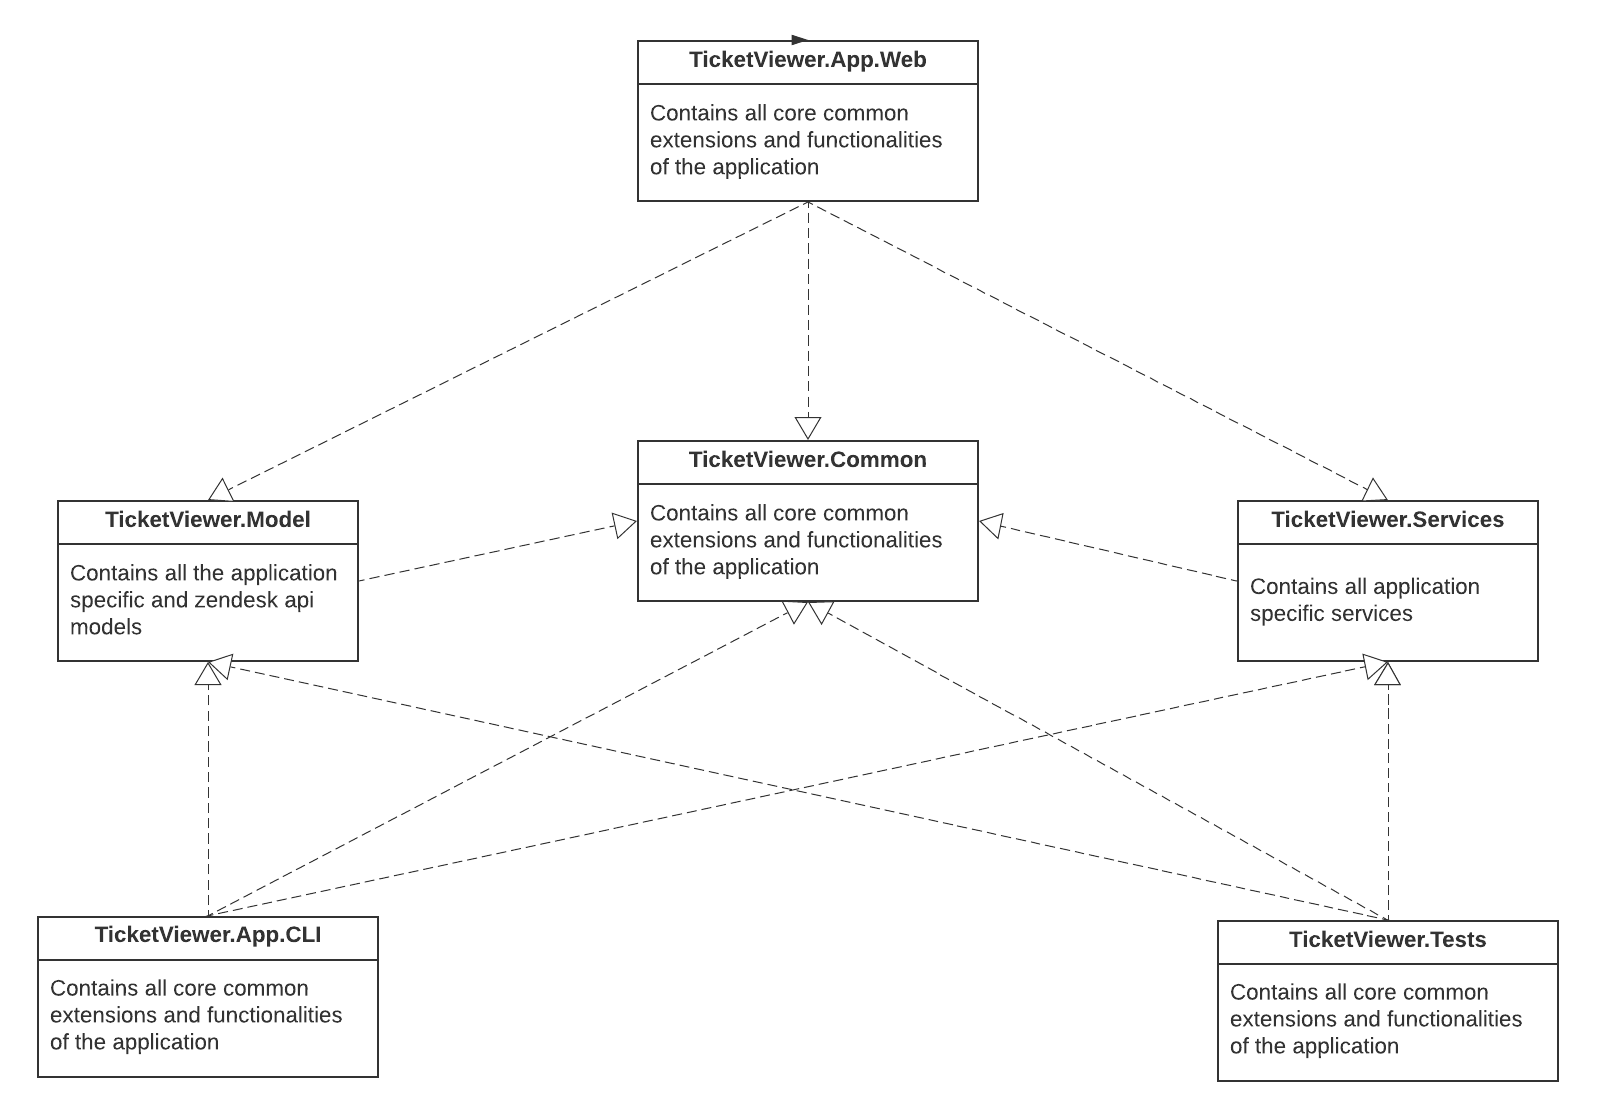
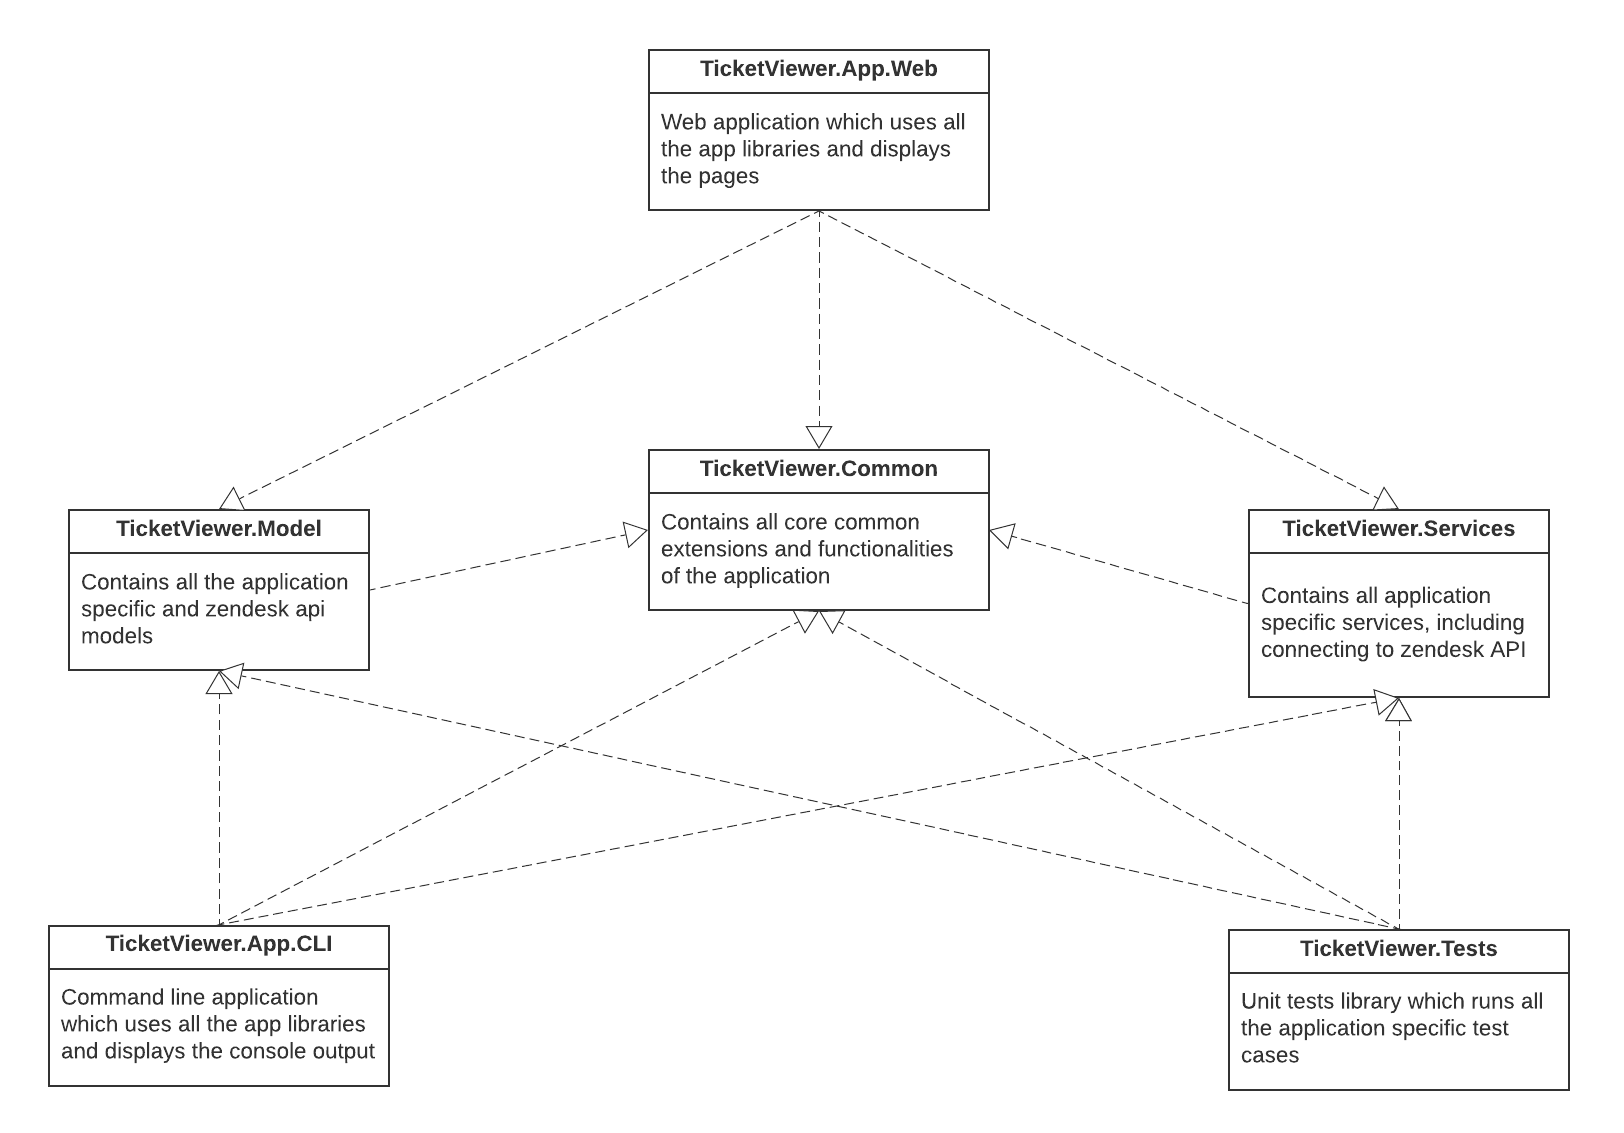
documentaion for application design

diff --git a/README.md b/README.md
@@ -51,12 +51,13 @@ Go To: **appsettings.json** in **TicketViewer.App.Web**
 
     ```JSON
     {
-    "ZendeskSubdomainName": "zccbsportive.zendesk.com",
-    "ZendeskAuthType": "TokenBased", // Values: "Basic", "TokenBased"
-    "ZendeskAccessToken": "__ZendeskAccessToken__",
-    "ZendeskUsername": "__ZendeskUsername__",
-    "ZendeskPassword": "__ZendeskPassword__",
-    "AllowedHosts": "*"
+        "ZendeskSubdomainName": "zccbsportive.zendesk.com",
+        "ZendeskAuthType": "TokenBased", // Values: "Basic", "TokenBased"
+        "ZendeskAccessToken": "__ZendeskAccessToken__",
+        // Provide either access token or username & password based on the provided AuthType
+        "ZendeskUsername": "__ZendeskUsername__",
+        "ZendeskPassword": "__ZendeskPassword__",
+        "AllowedHosts": "*"
     }
     ```
     - By default authentication type is "TokenBased".  
@@ -72,19 +73,26 @@ Go To: **appsettings.json** in **TicketViewer.App.Web**
 
 ## Application Design
 
+### Application Libraries 
+**TicketViewer.Common:**  
+Contains all core common extensions and functionalities of the application
+
+**TicketViewer.Model:**  
+Contains all the application specific and zendesk api models
+
+**TicketViewer.Services:**  
+Contains all application specific services, including connecting to zendesk API
+
+**TicketViewer.App.Web:**  
+Web application which uses all the app libraries and displays the pages
+
+**TicketViewer.App.CLI:**  
+Command line application which uses all the app libraries and displays the console output
+
+**TicketViewer.Tests:**  
+Unit tests library which runs all the application specific test cases
+
 <img src="images/project-design-architecture.png"> 
-
-**TicketViewer.Common**  
-
-**TicketViewer.Model**  
-
-**TicketViewer.Services**  
-
-**TicketViewer.App.Web**  
-
-**TicketViewer.App.CLI**  
-
-**TicketViewer.Tests**  
 
 - Created both browser based(**TicketViewer.App.Web**) and command line(**TicketViewer.App.CLI**) applications but using only **TicketViewer.App.Web**, so remove CLI application from the solution.
 
